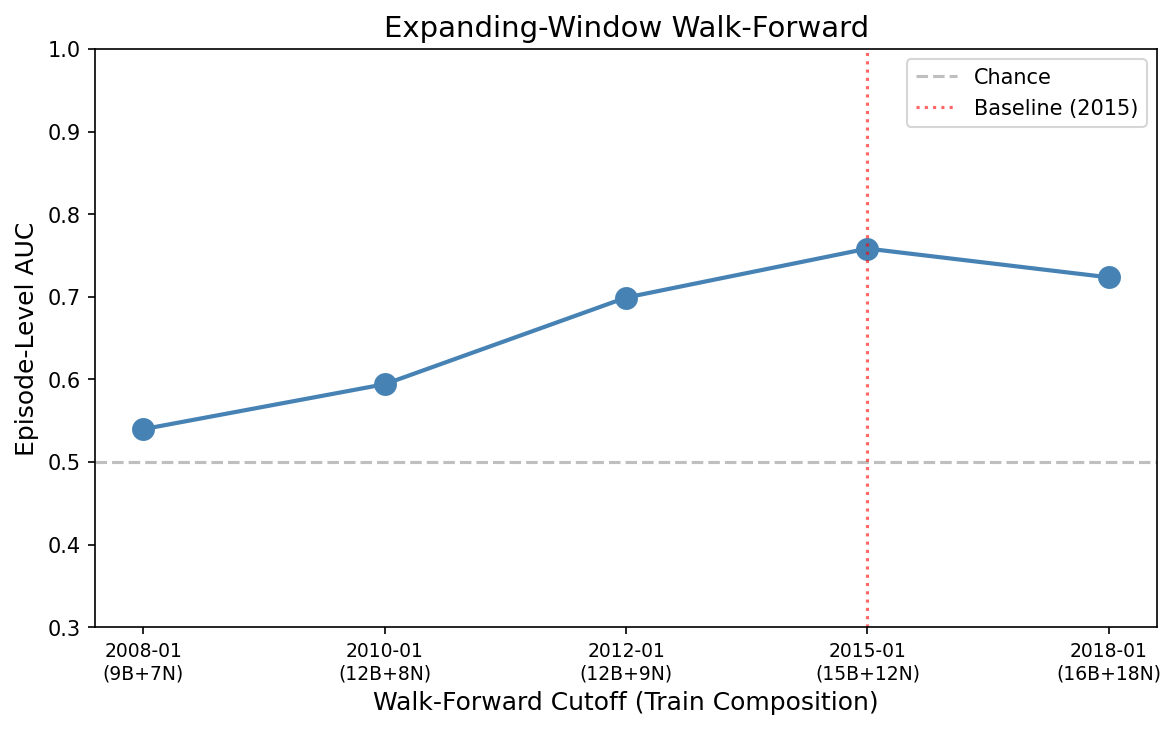
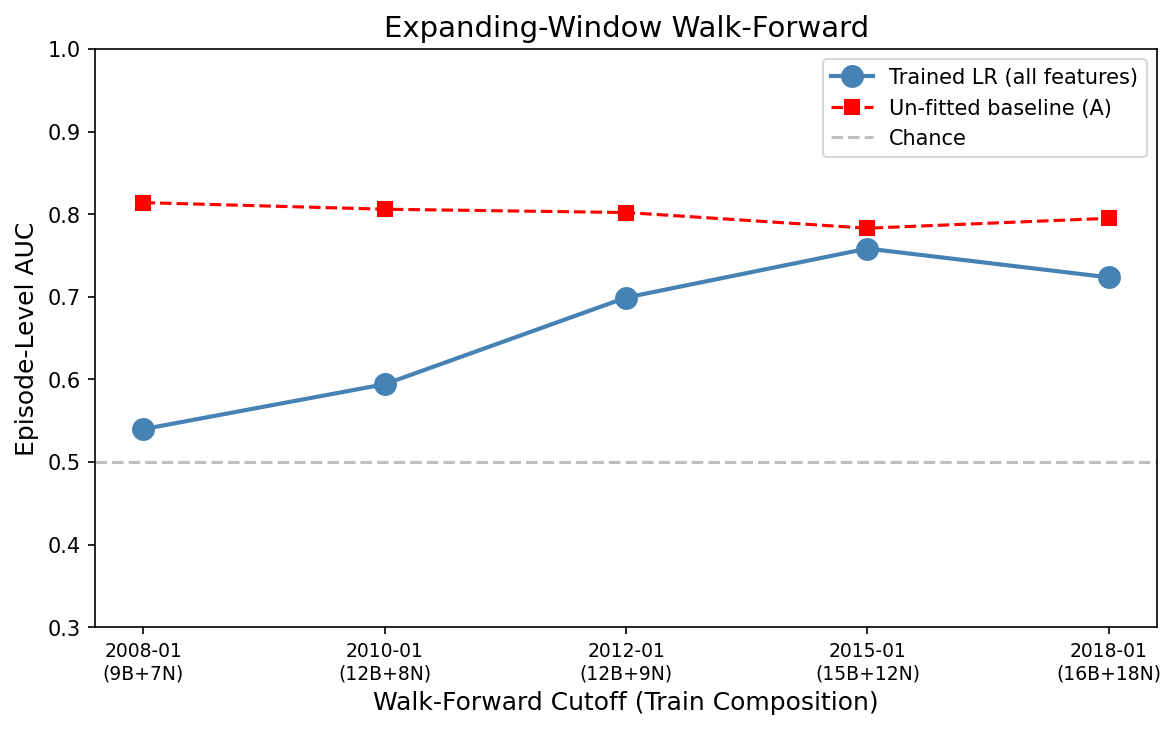
Add un-fitted baseline line to walk-forward figure
Makes the README's out-of-era caveat visible in the figure itself:
the baseline beats the trained model at every cutoff.

diff --git a/scripts/12_robustness.py b/scripts/12_robustness.py
@@ -704,14 +704,22 @@ def make_figures(wf_result, lag_result):
         if len(valid) >= 2:
             fig, ax1 = plt.subplots(figsize=(8, 5))
             ax1.plot(range(len(valid)), valid["lr_auc"].values, "o-",
-                     color="steelblue", linewidth=2, markersize=10)
-            ax1.axhline(0.5, color="gray", linestyle="--", alpha=0.5, label="Chance")
+                     color="steelblue", linewidth=2, markersize=10,
+                     label="Trained LR (all features)")
 
-            # Highlight the 2015 baseline
-            baseline_idx = valid[valid["cutoff"] == "2015-01"].index
-            if len(baseline_idx) > 0:
-                pos = list(valid.index).index(baseline_idx[0])
-                ax1.axvline(pos, color="red", linestyle=":", alpha=0.6, label="Baseline (2015)")
+            # Un-fitted vol-ratio baseline (metric A) episode AUC on each
+            # cutoff's test set, computed in the project audit
+            # (deep_audit_2026_07_09). The baseline wins at every cutoff.
+            baseline_by_cutoff = {"2008-01": 0.814, "2010-01": 0.806,
+                                  "2012-01": 0.802, "2015-01": 0.783,
+                                  "2018-01": 0.795}
+            base_vals = [baseline_by_cutoff.get(c, np.nan)
+                         for c in valid["cutoff"]]
+            ax1.plot(range(len(valid)), base_vals, "s--", color="red",
+                     linewidth=1.5, markersize=7,
+                     label="Un-fitted baseline (A)")
+
+            ax1.axhline(0.5, color="gray", linestyle="--", alpha=0.5, label="Chance")
 
             ax1.set_xticks(range(len(valid)))
             labels = []
